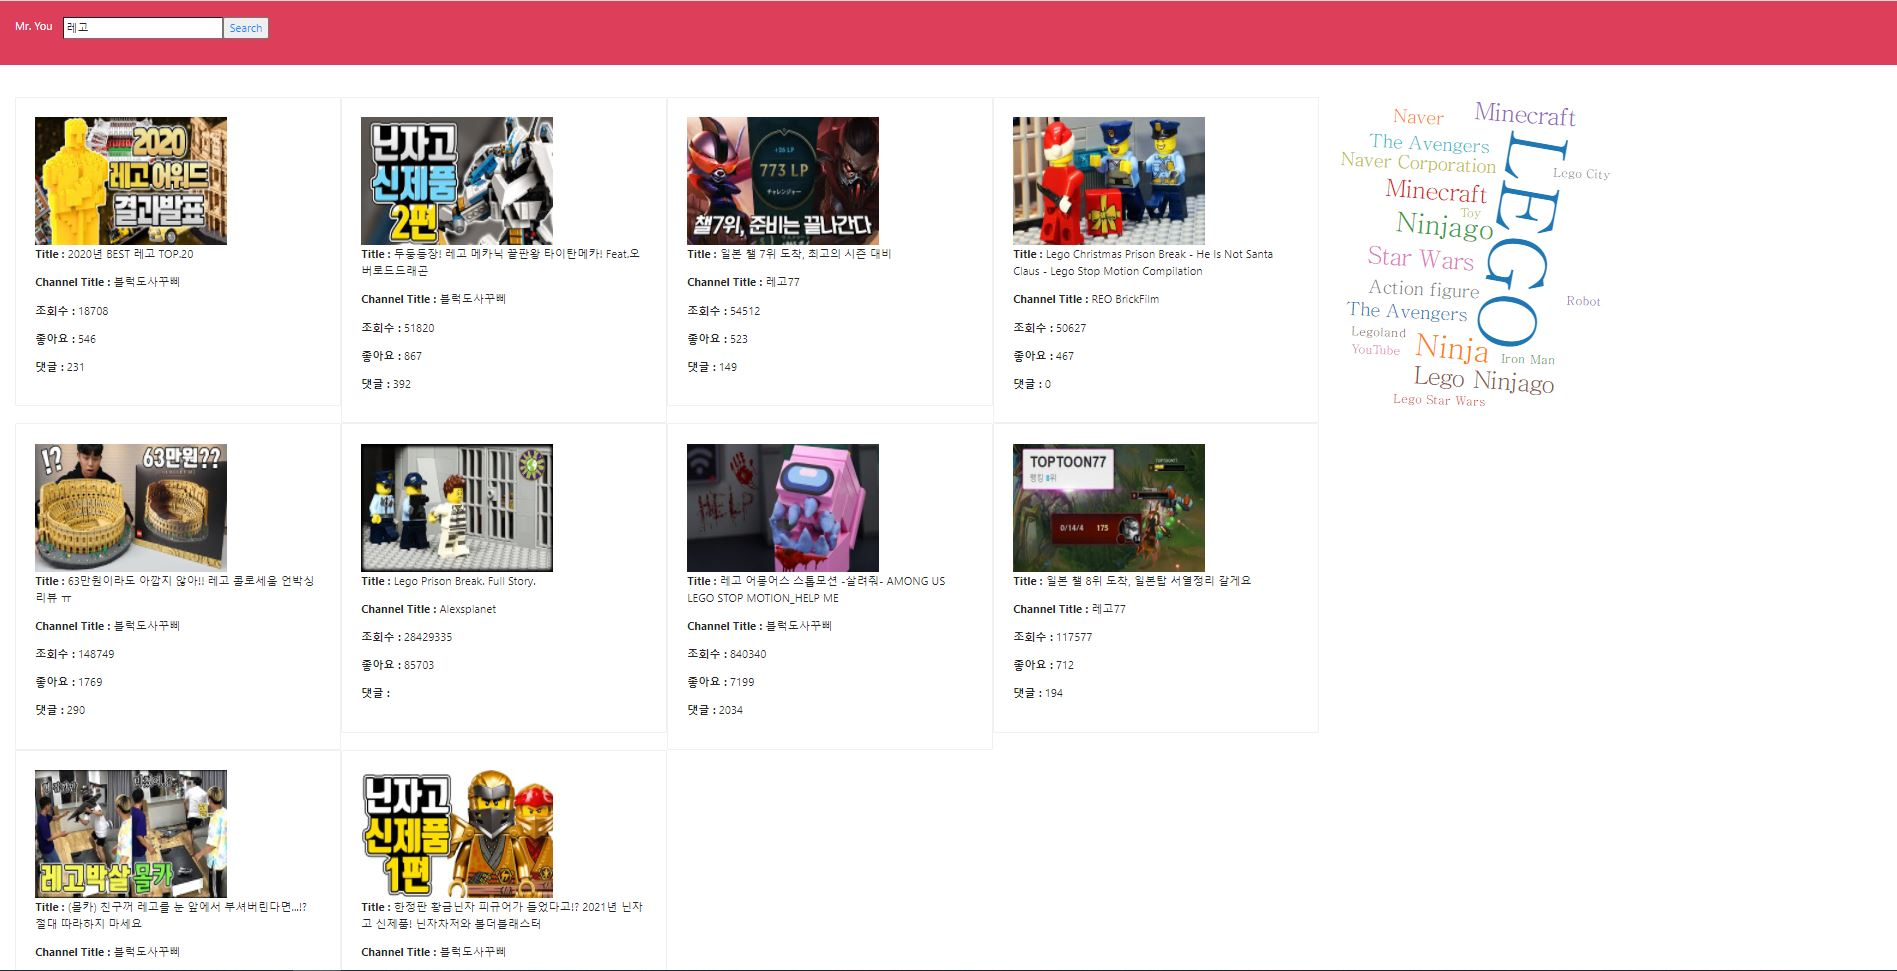
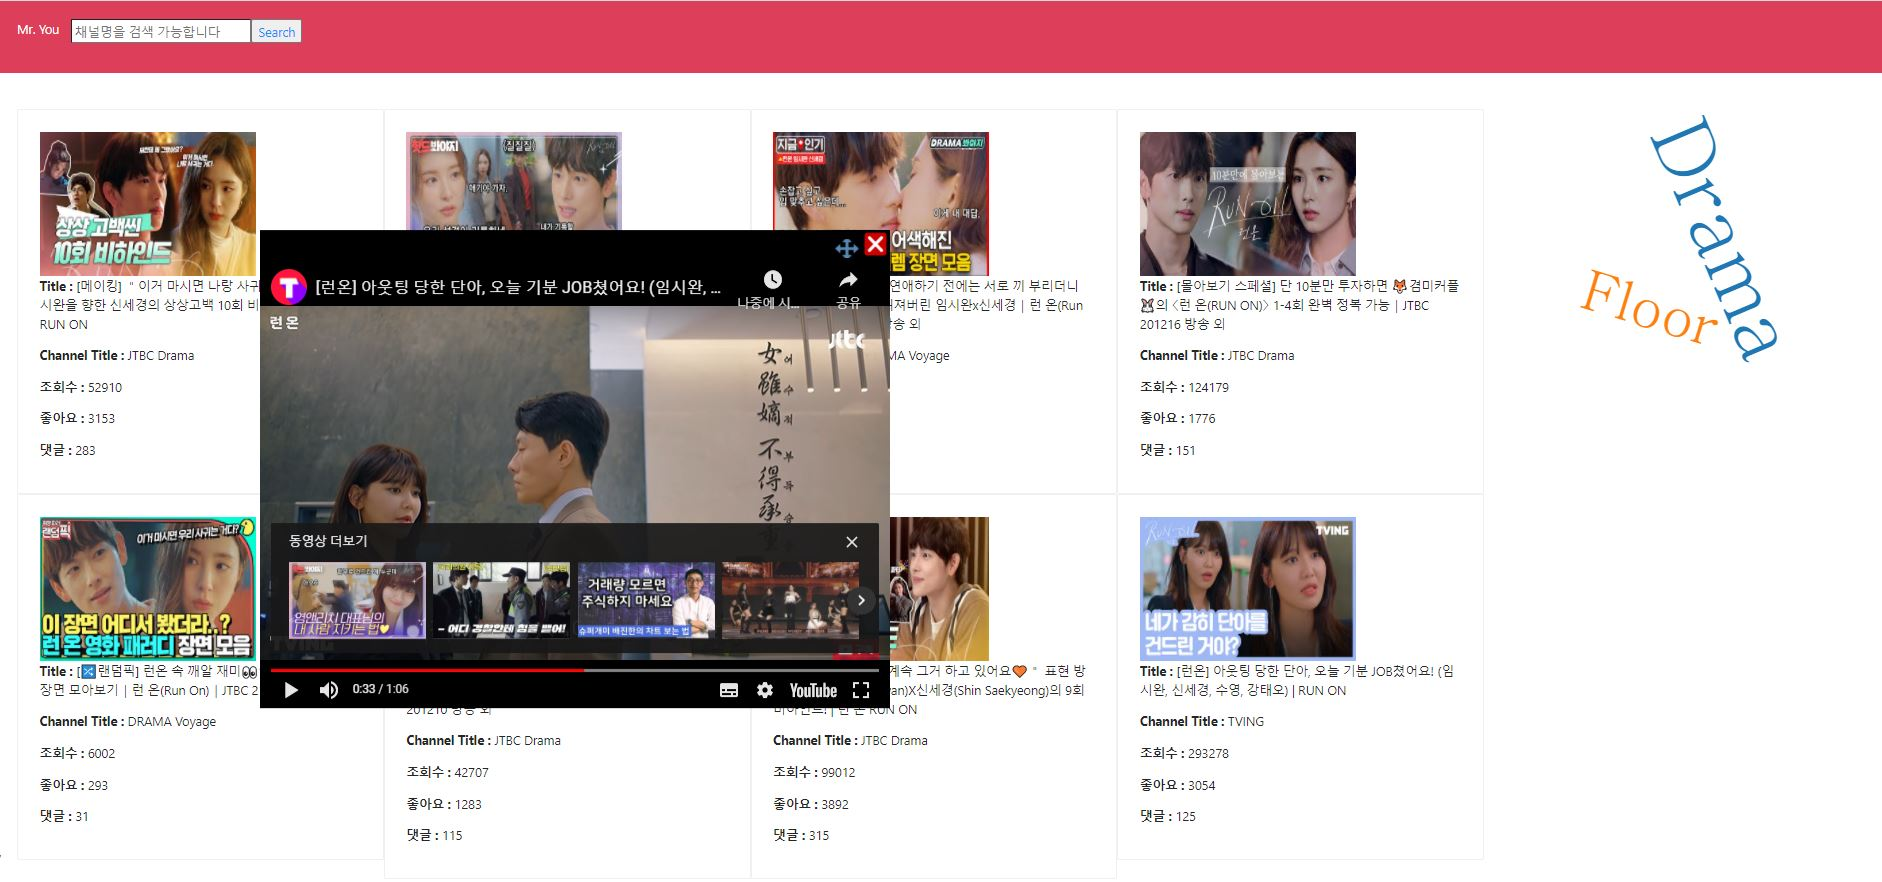
add floating Youtube Video

diff --git a/client/src/views/MainPage/MainPage.js b/client/src/views/MainPage/MainPage.js
@@ -8,14 +8,21 @@ import WordCloud from 'react-d3-cloud';
 import './MainPage.css';
 import 'antd/dist/antd.css';
 
+import YoutubePlayer from '../SubPage/YoutubePlayer';
+
+import {useDispatch} from "react-redux";
+import * as actionTypes from "../../actions";
+
 const {Search} = Input;
 
 const MainPage = ({match}) =>{
+    
+    const dispatch = useDispatch();
 
     const [Users,setUsers] = useState([])
     const [YoutubeList,setYoutubeList] = useState([])
-    const [WordCloudList,setWordCloudList] = useState([]);
-
+    const [WordCloudList,setWordCloudList] = useState([]);    
+    // const dispatch = useDispatch();
     // NavBar에서 전달된 값이 업데이트 될때만 searchYoutube 실행.
     useEffect(()=>{
 
@@ -55,13 +62,6 @@ const MainPage = ({match}) =>{
         .then(response=>{
             if(response.data.success){
                 console.log(response);
-                // if(response.result.data.items){
-                //     setYoutubeList([...response.result.data.items]);
-                //     console.log(response.result.data.items);
-                // }
-                // else{
-                //     console.log(`데이터를 찾아오지 못했습니다.`);
-                // }
             }
         })
     }
@@ -127,8 +127,12 @@ const MainPage = ({match}) =>{
         
         return (
         <Col lg={6} md={8} xs={24} key={index}>
-            <Card>
-                <img class="videoImg" src={List.snippet.thumbnails.medium.url}></img>
+            <Card
+                onClick={()=>{
+                    dispatch(actionTypes.startVideoPlayer(List.id,List.snippet.title));
+                }}
+            >
+                <img className="videoImg" src={List.snippet.thumbnails.medium.url}></img>
                 <p><strong>Title : </strong>{List.snippet.title}</p>
                 <p><strong>Channel Title : </strong>{List.snippet.channelTitle}</p>
                 <p><strong>조회수 : </strong>{List.statistics.viewCount}</p>
@@ -152,16 +156,26 @@ const MainPage = ({match}) =>{
                 </Row>
             </div>
             <div div class="sidebar">
-                <WordCloud
-                        data = {WordCloudList}
-                        width  = "400"
-                        height = "400"
-                        padding = "3"
-                        fontSizeMapper = {fontSizeMapper}
-                        rotate = {rotate}
-                        onWordClick = {transmitWord}
-                />
-            </div>
+                <Row>
+                    <Col>
+                        <WordCloud
+                            data = {WordCloudList}
+                            width  = "400"
+                            height = "400"
+                            padding = "3"
+                            fontSizeMapper = {fontSizeMapper}
+                            rotate = {rotate}
+                            onWordClick = {transmitWord}
+                        />
+                    </Col>
+                    <Col>
+                        <YoutubePlayer
+                            width = "400"
+                            height = "400"
+                        />
+                    </Col>
+                </Row>
+            </div>            
         </div>
         
     );

diff --git a/client/src/views/SubPage/YoutubePlayer.js b/client/src/views/SubPage/YoutubePlayer.js
@@ -1,0 +1,56 @@
+import React from 'react';
+import {useSelector,useDispatch} from "react-redux";
+import * as actionTypes from "../../actions";
+import Draggable from 'react-draggable';
+import {Resizable,ResizableBox} from "react-resizable";
+
+
+import './YoutubePlayer.css';
+// import "react-resizable/css/style.css";
+import arrowsIcon from '../../image/colorArrows.png';
+import closeIcon from '../../image/White_x_in_red_rounded_square.png';
+
+const YoutubePlayer = () =>{
+    
+    const videoPlayer = useSelector(state=>state.youtubePlayer.videoPlayer,[]);
+    const dispatch = useDispatch();
+
+    if(!videoPlayer.visible){
+        return null;
+    }
+    // 
+    return(
+        <Draggable handle=".handle">
+        <div 
+        className="custom-youtube-player" 
+        style={{width:"700px",height:"500px",marginTop:"415px"}}
+        >
+            <div 
+                className="close d-flex justify-content-center"
+                onClick = {()=>{dispatch(actionTypes.stopVideoPlayer())}}
+                // style={{backgroundImage:closeIcon}}
+                >
+                <img id="closeIcon" alt="closeIcon" src={closeIcon}/>
+                <i className="fas fa-times"></i>
+            </div>
+            <div className="handle d-flex justify-content-center">
+                <i className="fas fa-arrows-alt"></i>
+                <img id="arrowsIcon" alt="arrowsIcon" src={arrowsIcon}/>
+            </div>
+            <Resizable width={'100%'} height={'100%'}>
+                <iframe
+                id="player"
+                type="text/html"
+                style={{width:"100%",height:"100%"}}
+                title={videoPlayer.title}
+                src={`http://www.youtube.com/embed/${videoPlayer.video}`}
+                frameborder="0"
+                allowFullScreen
+                ></iframe>
+            </Resizable>
+        </div>
+        </Draggable>
+    )
+}
+
+export default YoutubePlayer;

diff --git a/client/src/reducer/youtubePlayer.js b/client/src/reducer/youtubePlayer.js
@@ -1,0 +1,43 @@
+import * as actionTypes from "../actions/ActionTypes";
+
+const initialState = {
+    navbar : true,
+    videoPlayer :{
+        vidoe : "",
+        visible : false
+    }
+}
+
+/*
+    리듀서 함수를 정의합니다. 리듀서는 state와 action와을 파라미터로 받습니다.
+    state가 undefined일 때(스토어가 생성될 때) state의 기본값을 initialState로 사용합니다
+    action.type에 따라 다른 작업을 하고, 새 상태를 만들어서 반환합니다.
+    이 때 주의할 점은 state를 직접 수정하면 안 되고,
+    기존 상태 값에 원하는 값을 엎어쓴 새로운 객체를 만들어서 반환해야한다.
+*/
+
+
+export default function youtubePlayer(state = initialState, action){
+    switch(action.type){
+        case actionTypes.START_VIDEO_PLAYER:
+            return{
+                ...state,
+                videoPlayer:{
+                    ...state.videoPlayer,
+                    video:action.video,
+                    visible:true
+                }
+            };
+        case actionTypes.STOP_VIDEO_PLAYER:
+            return{
+                ...state,
+                videoPlayer:{
+                    ...state.videoPlayer,
+                    video:"",
+                    visible:false
+                }
+            };
+        default :
+            return {...state};
+    }
+}

diff --git a/client/src/views/SubPage/YoutubePlayer.css b/client/src/views/SubPage/YoutubePlayer.css
@@ -1,0 +1,47 @@
+.custom-youtube-player {
+  /* position: fixed; */
+  width: 450px;
+  height: 300px;
+  bottom: 40px;
+  right: 40px;
+  background: #000;
+}
+
+.custom-youtube-player .close,
+.custom-youtube-player .handle {
+  position: absoulte;
+  float: right;
+  right: 0px;
+  top: -30px;
+  width: 32px;
+  height: 32px;
+  background: #000;
+  color: #fff;
+  opacity: 1;
+  padding: 3px;
+  cursor: pointer;
+}
+
+.custom-youtube-player .handle {
+  right: 32px;
+  padding-top: 8px;
+  color: #fff;
+  cursor: move;
+}
+
+.close img {
+  /* position: absolute; */
+  object-fit: cover;
+  top: 0;
+  left: 0;
+  width: 100%;
+  height: 100%;
+}
+
+.handle img {
+  object-fit: cover;
+  top: -50;
+  left: 0;
+  width: 100%;
+  height: 100%;
+}

diff --git a/client/src/actions/index.js b/client/src/actions/index.js
@@ -1,0 +1,19 @@
+import * as actionTypes from './ActionTypes';
+
+/*
+    action 객체를 만드는 액션 생성자들을 선언합니다.(action creators)
+    여기서 () => ({}) 은, function() {return {}} 와 동일한 의미입니다.
+    scope 이슈와 관계없이 편의상 사용되었습니다.
+*/
+
+export function startVideoPlayer(video,title) {
+    return dispatch => {
+        return dispatch({ type: actionTypes.START_VIDEO_PLAYER, video, title });
+    };
+}
+
+export function stopVideoPlayer() {
+    return dispatch => {
+        return dispatch({ type: actionTypes.STOP_VIDEO_PLAYER });
+    };
+}

diff --git a/client/src/index.js b/client/src/index.js
@@ -5,9 +5,20 @@ import './index.css';
 import App from './App';
 import reportWebVitals from './reportWebVitals';
 
+import {applyMiddleware, createStore} from "redux"
+import rootReducer from "./reducer/index";
+import {Provider} from 'react-redux';
+import thunk from "redux-thunk";
+
+
+const createStoreWithMiddleware = applyMiddleware(thunk)(createStore);
+const store = createStoreWithMiddleware(rootReducer);
+
 ReactDOM.render(
   <BrowserRouter>
-    <App />
+    <Provider store={store}>
+      <App />
+    </Provider>,  
   </BrowserRouter>,
   document.getElementById('root')
 );

diff --git a/client/src/actions/ActionTypes.js b/client/src/actions/ActionTypes.js
@@ -1,0 +1,8 @@
+/*
+    Action의 종류들을 선언합니다.
+    앞에 export를 붙임으로서, 나중에 이것들을 불러올 때,
+    import * as types frin './ActionTypes'를 할 수 있습니다.
+*/
+
+export const START_VIDEO_PLAYER = 'startVideoPlayer';
+export const STOP_VIDEO_PLAYER  = 'stopVideoPlayer';

diff --git a/client/src/reducer/index.js b/client/src/reducer/index.js
@@ -1,0 +1,8 @@
+import {combineReducers} from "redux";
+import youtubePlayer from './youtubePlayer';
+
+const rootReducer = combineReducers({
+    youtubePlayer
+});
+
+export default rootReducer;
